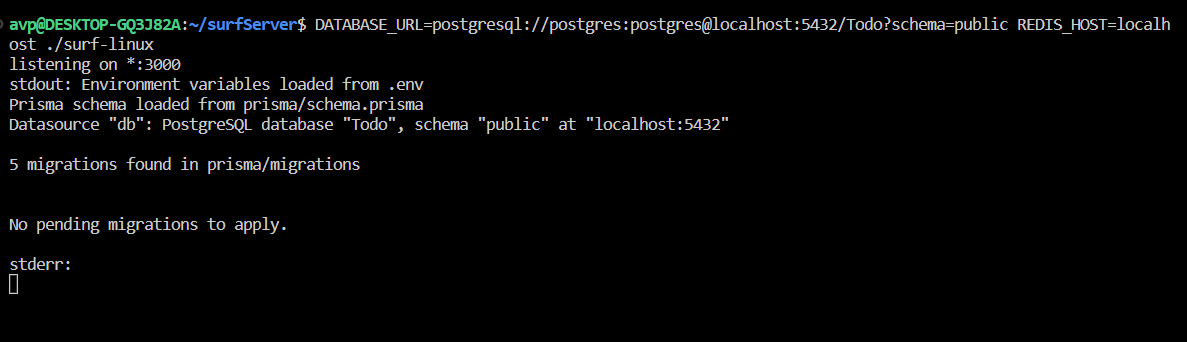
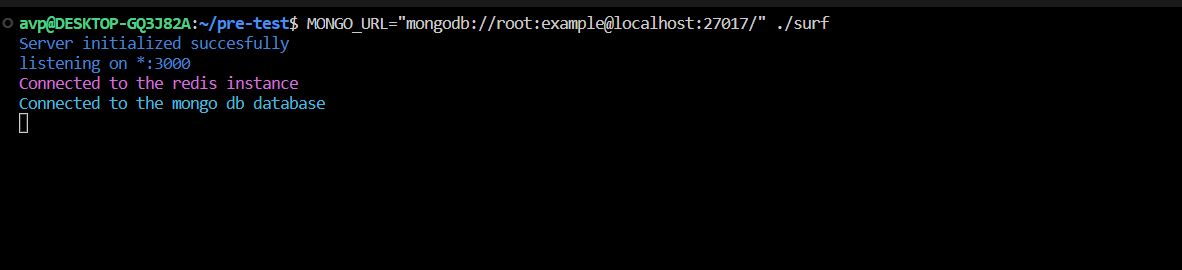
GitBook: [#10] Update binaries

Changed region(s): [[0.0, 0.0, 1.0, 0.5037], [0.0, 0.6222, 0.2437, 0.6815], [0.0, 0.7407, 0.0609, 0.8593]]

diff --git a/quick-start.md b/quick-start.md
@@ -15,7 +15,8 @@ We need to first install the surf server binary, currently only supported on lin
 {% tabs %}
 {% tab title="Linux" %}
 ```bash
-curl -L -o surf https://bafybeibohpwkbx4r57aauyh5unaubwvjhofpfitg7czsz3jck4js3hnbwe.ipfs.gateway.valist.io/ipfs/bafybeibohpwkbx4r57aauyh5unaubwvjhofpfitg7czsz3jck4js3hnbwe/surf-linux
+# download binary and add it to path
+curl -L -o surf https://bafybeiegma54dk2d5k4wrdspgjgpler5azixbjt5p473hc5aal2izgwcaq.ipfs.gateway.valist.io/ipfs/bafybeiegma54dk2d5k4wrdspgjgpler5azixbjt5p473hc5aal2izgwcaq/surf-linux
 chmod +x surf
 sudo cp ./surf /usr/local/bin
 ```
@@ -23,7 +24,7 @@ sudo cp ./surf /usr/local/bin
 
 {% tab title="MacOS" %}
 ```bash
-curl -L -o surf https://bafybeibohpwkbx4r57aauyh5unaubwvjhofpfitg7czsz3jck4js3hnbwe.ipfs.gateway.valist.io/ipfs/bafybeibohpwkbx4r57aauyh5unaubwvjhofpfitg7czsz3jck4js3hnbwe/surf-macos
+curl -L -o surf https://bafybeiegma54dk2d5k4wrdspgjgpler5azixbjt5p473hc5aal2izgwcaq.ipfs.gateway.valist.io/ipfs/bafybeiegma54dk2d5k4wrdspgjgpler5azixbjt5p473hc5aal2izgwcaq/surf-macos
 ```
 {% endtab %}
 {% endtabs %}
@@ -34,22 +35,21 @@ The binary has not been tested on macOS.
 
 ## Run the databases
 
-Make sure you have a postgres and a redis instance running. You can copy this docker compose file to get it up quickly
+Make sure you have a mongodb and a redis instance running. You can copy this docker compose file to get it up quickly
 
 ```yaml
 version: "3.3"
 services:
-  postgres:
-    image: postgres:latest
-    hostname: postgres
+  mongo:
+    image: mongo:latest
+    restart: always
     ports:
-      - 5432:5432
+      - 27017:27017
     environment:
-      POSTGRES_USER: postgres
-      POSTGRES_PASSWORD: postgres
-      POSTGRES_DB: Todo
+      MONGO_INITDB_ROOT_USERNAME: root
+      MONGO_INITDB_ROOT_PASSWORD: example
     volumes:
-      - postgres-data:/var/lib/postgresql/data
+      - db-data:/data/db
     restart: unless-stopped
 
   redis:
@@ -58,8 +58,8 @@ services:
       - 6379:6379
 
 volumes:
-  postgres-data:
-
+  db-data:
+  
 ```
 
 ```bash
@@ -69,12 +69,12 @@ docker-compose up
 ## Run the binary
 
 ```bash
-DATABASE_URL=postgresql://postgres:postgres@localhost:5432/Todo?schema=public REDIS_HOST=localhost surf
+MONGO_URL=mongodb://root:example@localhost:27017/ REDIS_HOST=localhost surf
 ```
 
 Now you should see the following output
 
-<figure><img src=".gitbook/assets/image.png" alt=""><figcaption><p>server listening on port 3000</p></figcaption></figure>
+<figure><img src=".gitbook/assets/image.png" alt=""><figcaption></figcaption></figure>
 
 ## Install the Surf Client SDK
 
